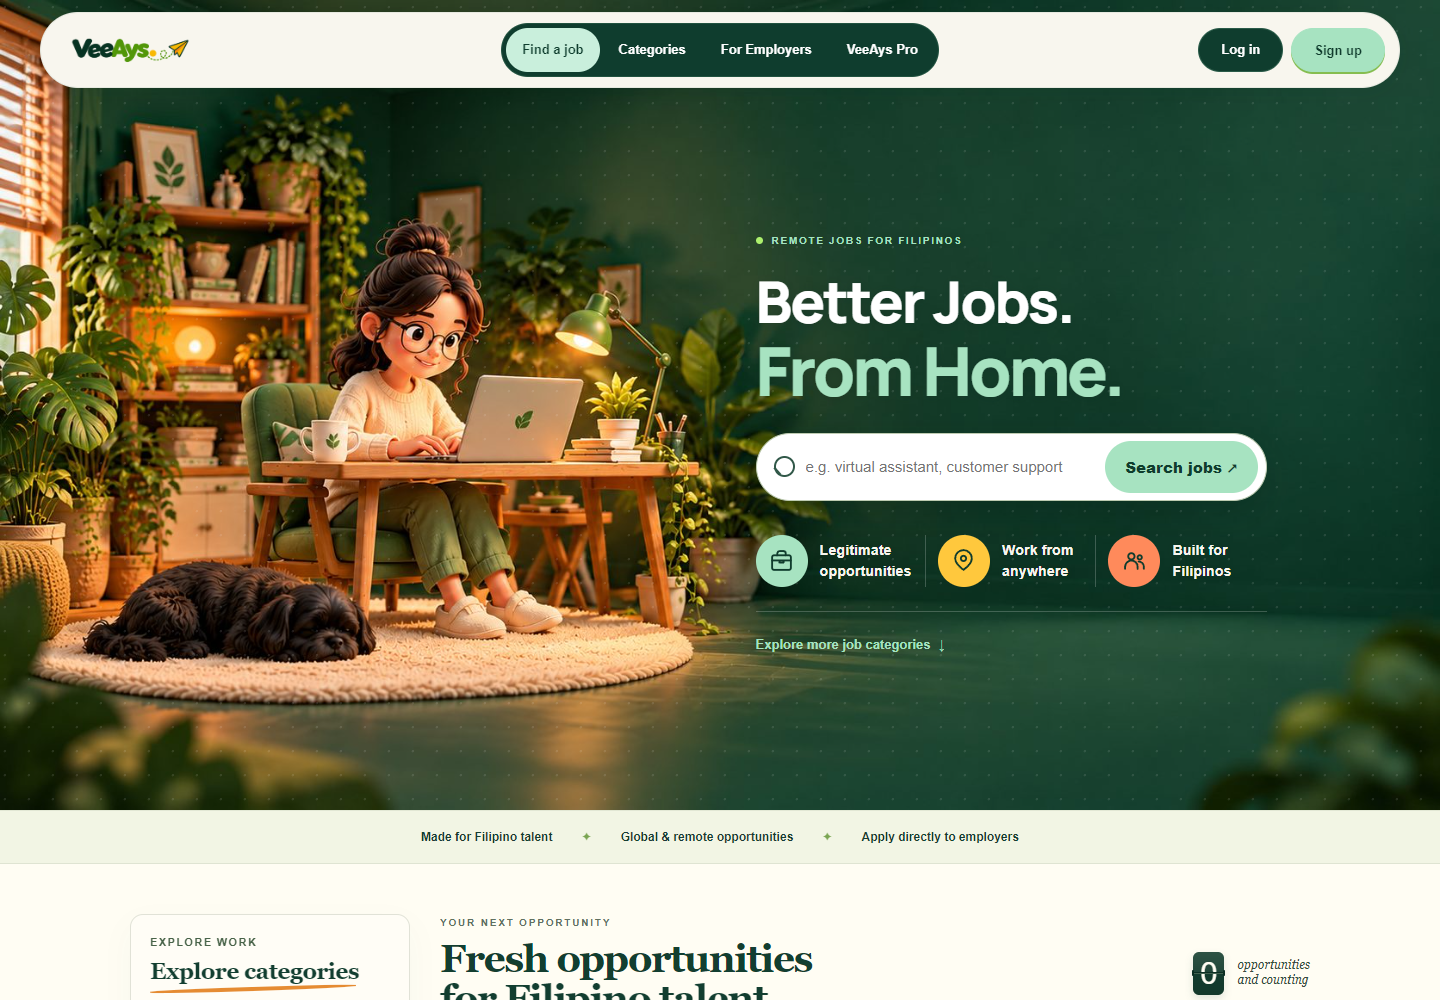
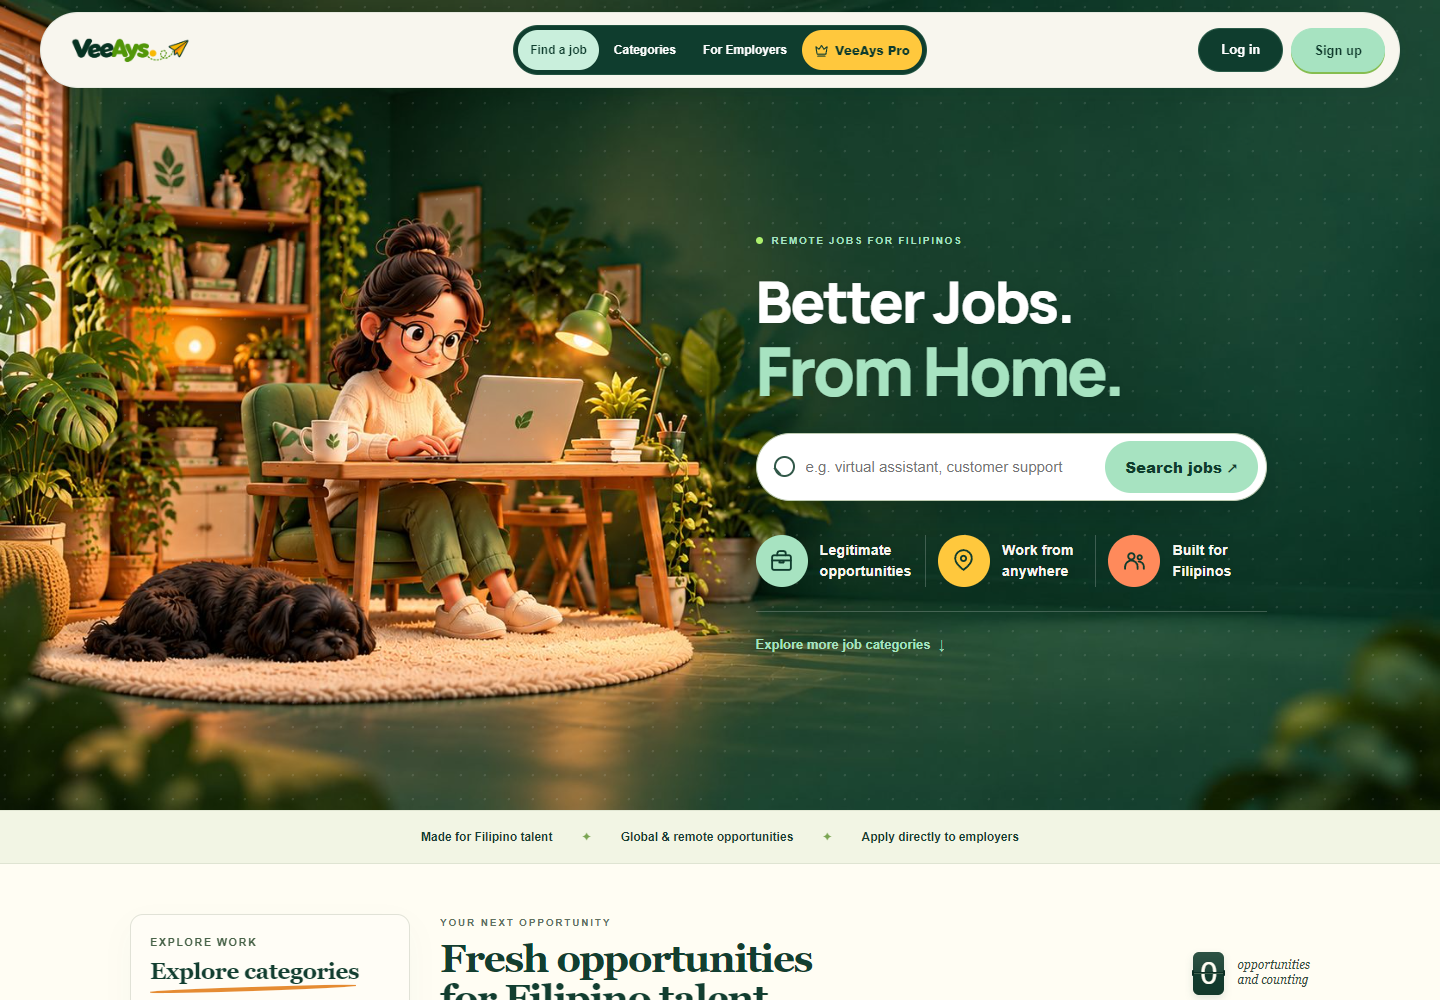
Refine compact navigation and keep Pro prominently gold

Changed region(s): [[0.3438, 0.0, 0.6562, 0.093]]

diff --git a/src/site-header.js b/src/site-header.js
@@ -1,9 +1,11 @@
 // Shared public-site header. Identity and route state are supplied by layout.
 export function siteHeader({ discoveryLinks, navLink, isPro, user, firstName, accountLinks, esc }) {
+  const crown = '<svg class="nav-crown" viewBox="0 0 24 24" width="15" height="15" aria-hidden="true" focusable="false"><path d="m3 6 5 4 4-6 4 6 5-4-2 12H5L3 6Zm3 15h12" fill="none" stroke="currentColor" stroke-width="1.8" stroke-linecap="round" stroke-linejoin="round"/></svg>';
+  const proLabel = crown + (isPro ? 'Your Pro' : 'VeeAys Pro');
   return `<header class="site-header veeays-navigation">
   <div class="wrap header">
     <a class="veeays-brand" href="/" aria-label="VeeAys home"><img class="veeays-logo-img" src="/veeays-logo.png" alt="VeeAys" width="1200" height="400"></a>
-    <nav class="discovery-nav" aria-label="Explore">${discoveryLinks}${navLink('/pro', isPro ? 'Your Pro' : 'VeeAys Pro', 'nav-pro')}</nav>
+    <nav class="discovery-nav" aria-label="Explore">${discoveryLinks}${navLink('/pro', proLabel, 'nav-pro')}</nav>
     <div class="header-actions">
       ${user ? `<nav class="workspace-nav" aria-label="Your workspace">${navLink('/matches', 'My matches')}${navLink('/my-jobs', 'My jobs')}</nav>
       <details class="member-menu nav-disclosure">
@@ -11,10 +13,10 @@ export function siteHeader({ discoveryLinks, navLink, isPro, user, firstName, ac
         <div class="member-panel" id="member-panel"><div class="member-panel-heading"><span>Your VeeAys</span><small>${isPro ? 'Pro member' : 'Free member'}</small></div>${accountLinks}</div>
       </details>` : `${navLink('/login', 'Log in', 'auth-link')}${navLink('/signup', 'Sign up', 'post-job-cta')}`}
     </div>
-    ${user ? navLink('/pro', isPro ? 'Your Pro' : 'Explore Pro', 'mobile-pro-link') : ''}
+    ${navLink('/pro', proLabel, 'mobile-pro-link nav-pro')}
     <details class="mobile-menu nav-disclosure">
       <summary aria-controls="mobile-panel"><span class="menu-lines" aria-hidden="true"></span><span>Menu</span></summary>
-      <div class="mobile-panel" id="mobile-panel"><nav aria-label="Mobile explore"><p class="nav-section-label">Explore</p>${discoveryLinks}${!user ? navLink('/pro', 'VeeAys Pro', 'nav-pro') : ''}</nav>
+      <div class="mobile-panel" id="mobile-panel"><nav aria-label="Mobile explore"><p class="nav-section-label">Explore</p>${discoveryLinks}${navLink('/pro', proLabel, 'nav-pro')}</nav>
       <nav aria-label="Mobile account"><p class="nav-section-label">${user ? 'Your VeeAys' : 'Make your next move'}</p>${user ? `<div class="mobile-member"><span class="member-avatar" aria-hidden="true">${esc(firstName.slice(0,1).toUpperCase())}</span><strong>${esc(firstName)}</strong><span class="${isPro ? 'member-pro' : 'member-free'}">${isPro ? 'PRO' : 'Free member'}</span></div>${navLink('/matches', 'My matches')}${navLink('/my-jobs', 'My jobs')}${accountLinks}` : `${navLink('/login', 'Log in')}${navLink('/signup', 'Sign up', 'mobile-signup')}`}</nav></div>
     </details>
   </div>

diff --git a/public/navigation.css b/public/navigation.css
@@ -18,7 +18,7 @@ body > .veeays-navigation .discovery-nav {
   background:#0f3d2e;border:1px solid #a7e3c11f;margin-inline:auto;
 }
 body > .veeays-navigation .discovery-nav a {
-  min-height:44px;padding:0 16px;border-radius:999px;color:#fffdf3;font-size:13px;line-height:1.25;
+  min-height:40px;padding:0 12px;border-radius:999px;color:#fffdf3;font-size:12px;line-height:1.25;
   font-family:inherit;font-style:normal;font-weight:600;text-decoration:none;
 }
 body > .veeays-navigation .discovery-nav a:hover {background:#204d3d;color:#fffdf3}
@@ -83,3 +83,16 @@ body:has(.pro-premium-hero) .pro-premium-hero {padding-top:100px}
 body:has(.green-room-hero) .veeays-navigation :is(a,summary):focus-visible {outline-color:#267653}
 body > .veeays-navigation .discovery-nav a:focus-visible {outline-color:#a7e3c1}
 body:has(.green-room-hero) > .veeays-navigation .discovery-nav a:focus-visible {outline-color:#a7e3c1}
+
+/* Pro remains gold independently of the current discovery route. */
+body > .veeays-navigation :is(.discovery-nav,.mobile-panel) a.nav-pro,
+body > .veeays-navigation a.mobile-pro-link.nav-pro {
+ display:flex;align-items:center;justify-content:center;gap:6px;
+ background:#FFC83D;color:#0f3d2e;font-weight:800;border-radius:999px;
+}
+body > .veeays-navigation :is(.discovery-nav,.mobile-panel) a.nav-pro:hover,
+body > .veeays-navigation a.mobile-pro-link.nav-pro:hover {background:#ffd466;color:#0f3d2e}
+body > .veeays-navigation a.nav-pro[aria-current=page] {box-shadow:inset 0 0 0 2px #0f3d2e}
+body > .veeays-navigation .nav-crown {flex:none}
+@media(min-width:1151px) {body > .veeays-navigation a.mobile-pro-link.nav-pro {display:none}}
+@media(max-width:360px) {body > .veeays-navigation .veeays-brand {width:82px;min-width:0;padding-inline:2px!important} body > .veeays-navigation .mobile-menu summary {padding-inline:9px} body > .veeays-navigation a.mobile-pro-link.nav-pro {font-size:10px;gap:3px;padding-inline:7px}}

diff --git a/src/render.js b/src/render.js
@@ -71,7 +71,7 @@ export function layout({ title, description, canonical, body, noindex = false, u
   >
 
   <link rel="stylesheet" href="/styles.css?v=20261020-manrope">
-<link rel="stylesheet" href="/navigation.css?v=20261020-cream">
+<link rel="stylesheet" href="/navigation.css?v=20261020-gold">
 <link rel="stylesheet" href="/traffic.css?v=20261012-dismiss">
 <script src="/traffic.js?v=20261012-dismiss" type="module"></script>
 </head>
@@ -83,7 +83,7 @@ export function layout({ title, description, canonical, body, noindex = false, u
 </a>
 
 ${siteHeader({ discoveryLinks, navLink, isPro, user, firstName, accountLinks, esc })}
-<script src="/navigation.js?v=20261020-cream" defer></script>
+<script src="/navigation.js?v=20261020-gold" defer></script>
 
 
 

diff --git a/test/unified-navigation.test.js b/test/unified-navigation.test.js
@@ -8,7 +8,7 @@ test('all public and member routes share one header, unchanged authentic logo an
     const html=render(route);
     assert.equal((html.match(/<header class="site-header veeays-navigation">/g)||[]).length,1,route);
     assert.match(html,/src="\/veeays-logo.png" alt="VeeAys" width="1200" height="400"/);
-    assert.match(html,/href="\/navigation.css\?v=20261020-cream"/);
+    assert.match(html,/href="\/navigation.css\?v=20261020-gold"/);
     assert.match(html,/<main id="main">\s*<p>Approved page content<\/p>/);
     assert.match(html,/class="skip" href="#main"/);
   }

diff --git a/docs/unified-navigation.md b/docs/unified-navigation.md
@@ -21,3 +21,9 @@ Originating chat was read, but its generated image was returned only as a conten
 Fresh validation: 12 focused tests passed (shared header, route/account states, homepage search/category/save behavior, Pro rendering and offline CAPTCHA integration). Build-only Wrangler dry run and git diff whitespace check passed. Actual local Chromium screenshots use existing page renderers/assets, empty listings and synthetic member identity. Twenty viewport/route checks (320, 390, 768, 1151, 1440; homepage, Pro, login, member workspace) passed with no horizontal overflow, cream computed shell color and original logo decoded at 1200px. Mobile Enter/Escape/focus restoration passed. Optional analytics declined only in local preview storage. No live account, CAPTCHA submission, production write, merge or deployment.
 
 Updated evidence: home-desktop.png, home-mobile.png, pro-desktop.png, pro-mobile.png, mobile-menu.png, member-menu-desktop.png and visual-checks.json in evidence/unified-navigation. These supersede the previous forest-shell screenshots. KEEP DRAFT until the user approves.
+
+## Compact capsule and persistent Pro highlight — latest approved revision
+
+Supersedes earlier navigation mockups: the centered forest capsule uses 40px-high compact links, with a persistent #FFC83D Pro pill and decorative crown. Mint current-page styling remains on other discovery links; Pro retains gold and gains an inset current-page ring plus aria-current only on /pro. Anonymous and member mobile headers expose Pro beside the native Menu disclosure. At 320px the original logo scales down to fit without clipping.
+
+Fresh validation for this revision: 10 focused tests pass (shared navigation, route/account states, homepage, Pro and offline CAPTCHA integration). Build-only Wrangler dry run passes, 418.33 KiB / 115.91 KiB gzip. Twenty local Chromium viewport/route checks pass at 320/390/768/1151/1440 for home, Pro, login and synthetic member workspace, including gold computed color, correct Pro aria-current, no horizontal overflow, cream shell and authentic decoded logo. Enter/Escape/focus restoration pass. Screenshots and visual-checks.json replaced with fresh captures. Exact generated ChatGPT image remains inaccessible; implementation uses the user's detailed latest specification. No hero/logo asset, CAPTCHA code, Smart Alerts flag, production configuration, merge or deployment changed. Keep PR #31 draft.
